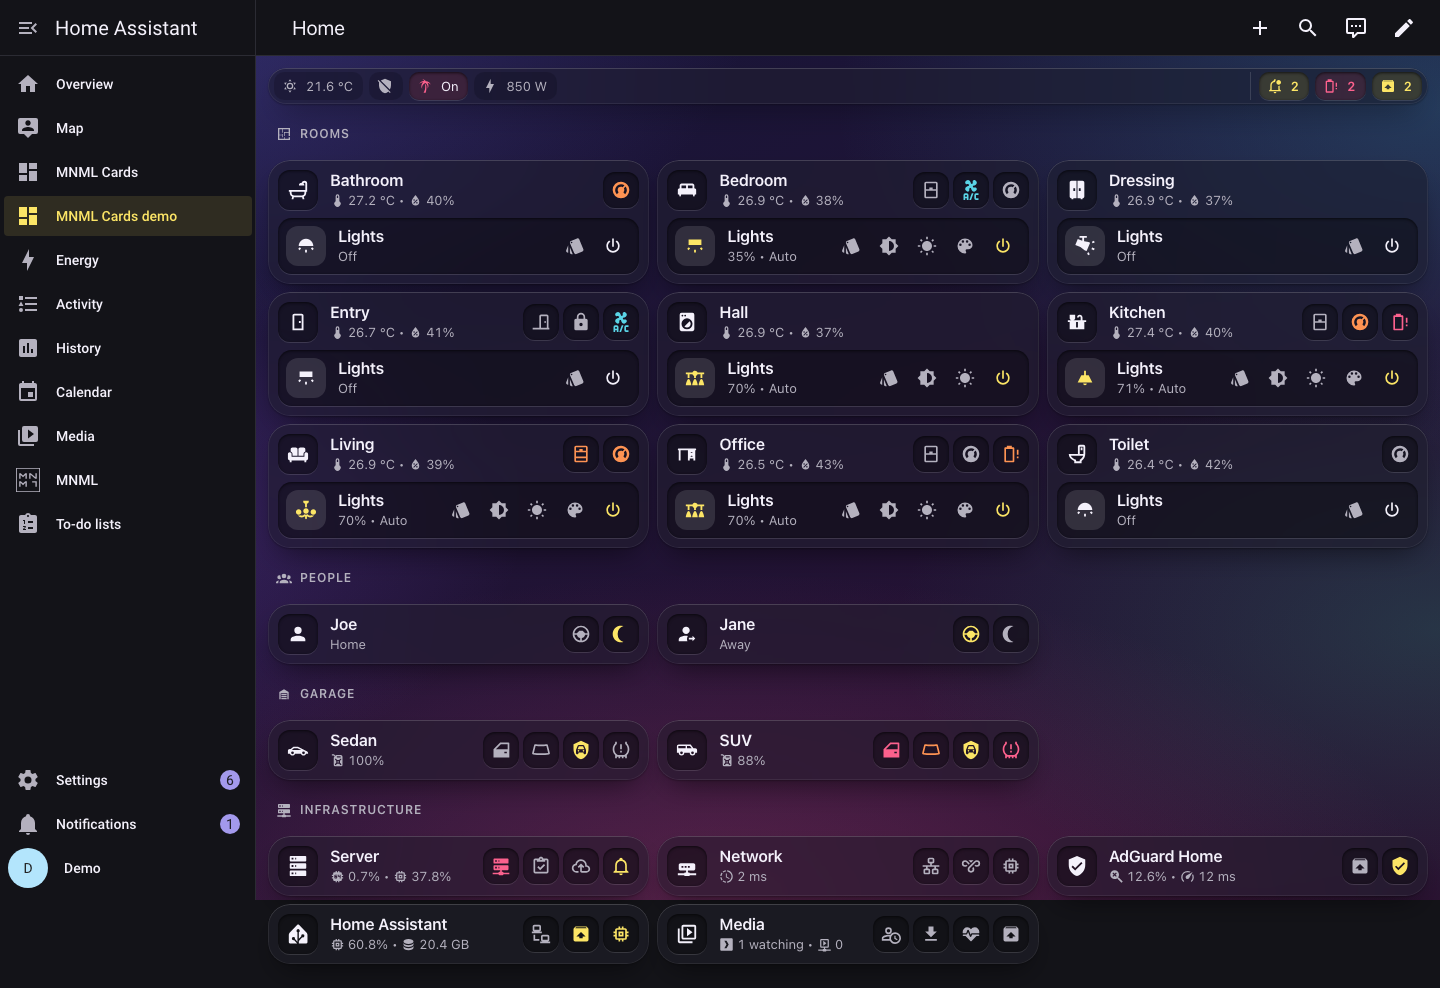
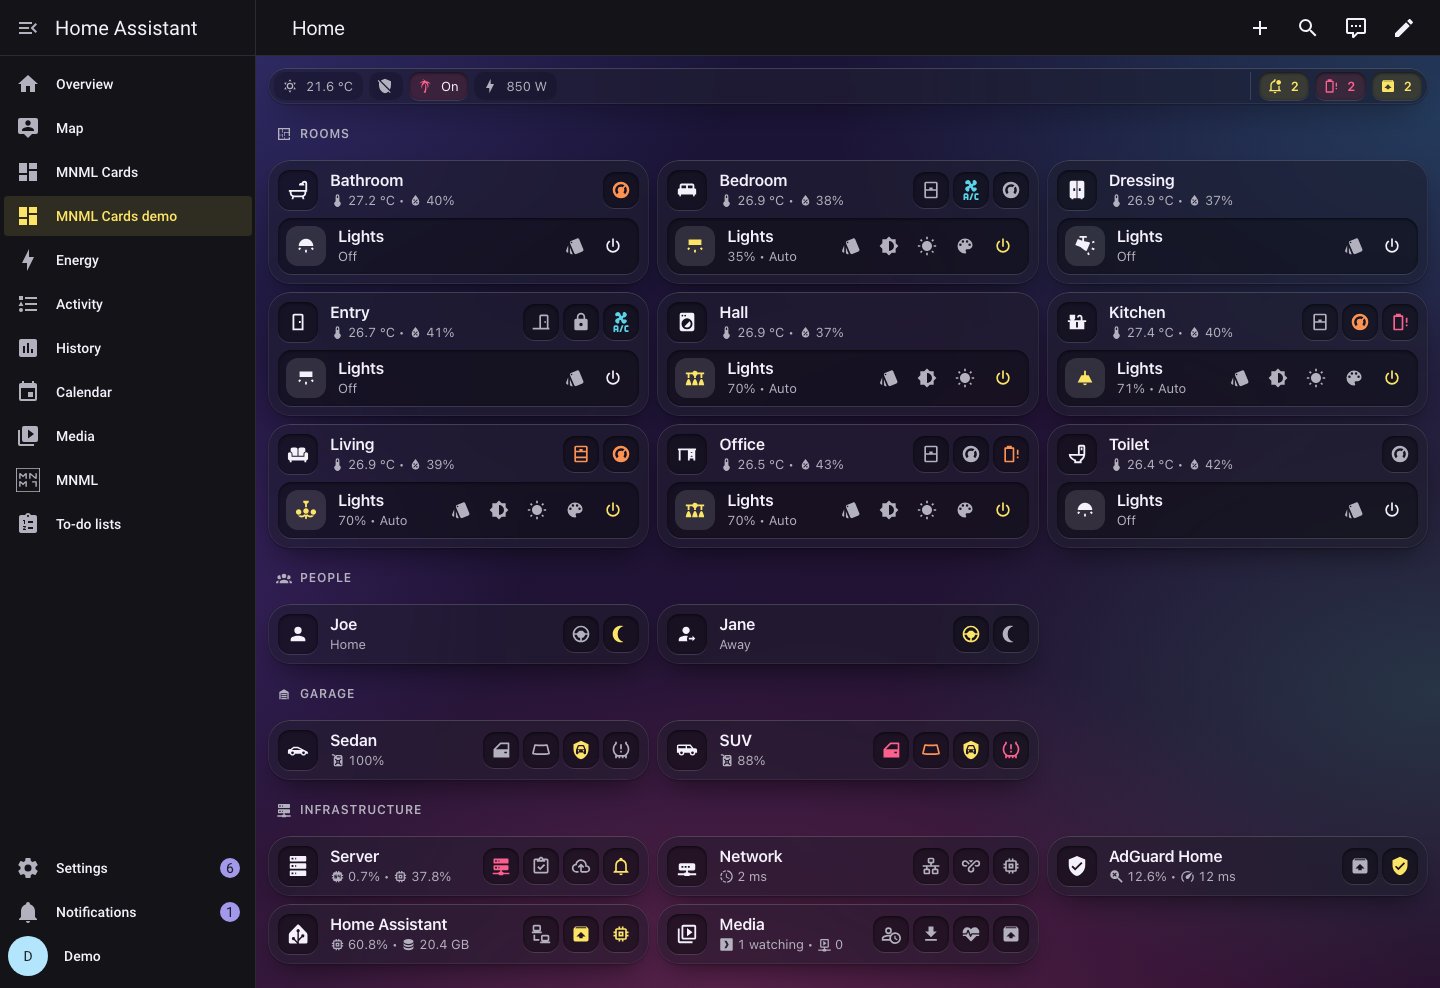
Centre the status strip on a phone; screenshots with the page background to the bottom

Changed region(s): [[0.1562, 0.9109, 1.0, 1.0], [0.0, 0.8198, 0.0938, 1.0], [0.1562, 0.8198, 0.1875, 0.8806]]

diff --git a/tools/screenshots.ts b/tools/screenshots.ts
@@ -1,6 +1,6 @@
 import { mkdirSync } from 'node:fs';
 
-import type { Browser, BrowserContextOptions } from 'playwright';
+import type { Browser, BrowserContextOptions, Page } from 'playwright';
 
 import { VIEWPORTS, launch, navigate, signedIn, useTheme } from './browser.ts';
 import { readEnv } from './env.ts';
@@ -22,6 +22,19 @@ async function demo(browser: Browser, size: BrowserContextOptions, dark: boolean
   await opened.page.waitForTimeout(5000);
   await useTheme(opened.page, 'MNML', dark);
   return opened;
+}
+
+async function whole(page: Page, path: string): Promise<void> {
+  const first = await page.screenshot({ fullPage: true });
+  const size = page.viewportSize();
+  if (size !== null) {
+    await page.setViewportSize({ width: size.width, height: first.readUInt32BE(20) });
+    await page.waitForTimeout(1500);
+  }
+  await page.screenshot({ path });
+  if (size !== null) {
+    await page.setViewportSize(size);
+  }
 }
 
 async function useGlass(glass: boolean): Promise<void> {
@@ -57,7 +70,7 @@ for (const [name, size] of Object.entries(VIEWPORTS)) {
   for (const dark of [false, true]) {
     const { context, page } = await demo(browser, size, dark);
     const look = `${name}-${dark ? 'dark' : 'light'}`;
-    await page.screenshot({ path: `${OUT}/${look}.png`, fullPage: true });
+    await whole(page, `${OUT}/${look}.png`);
     console.log(`${OUT}/${look}.png`);
     if (name === 'desktop' && dark) {
       for (const hash of POPUPS) {
@@ -110,7 +123,7 @@ await useGlass(false);
 for (const dark of [false, true]) {
   const { context, page } = await demo(browser, VIEWPORTS.desktop, dark);
   const look = `flat-desktop-${dark ? 'dark' : 'light'}`;
-  await page.screenshot({ path: `${OUT}/${look}.png`, fullPage: true });
+  await whole(page, `${OUT}/${look}.png`);
   console.log(`${OUT}/${look}.png`);
   await context.close();
 }

diff --git a/src/cards/glances.ts b/src/cards/glances.ts
@@ -126,6 +126,13 @@ const GLANCES_STYLE = css`
     }
   }
   @media (max-width: 480px) {
+    .glances,
+    .group {
+      justify-content: center;
+    }
+    .group.problems {
+      margin-left: 0;
+    }
     .group.calm + .group.problems {
       padding-left: 0;
       border-left: 0;
